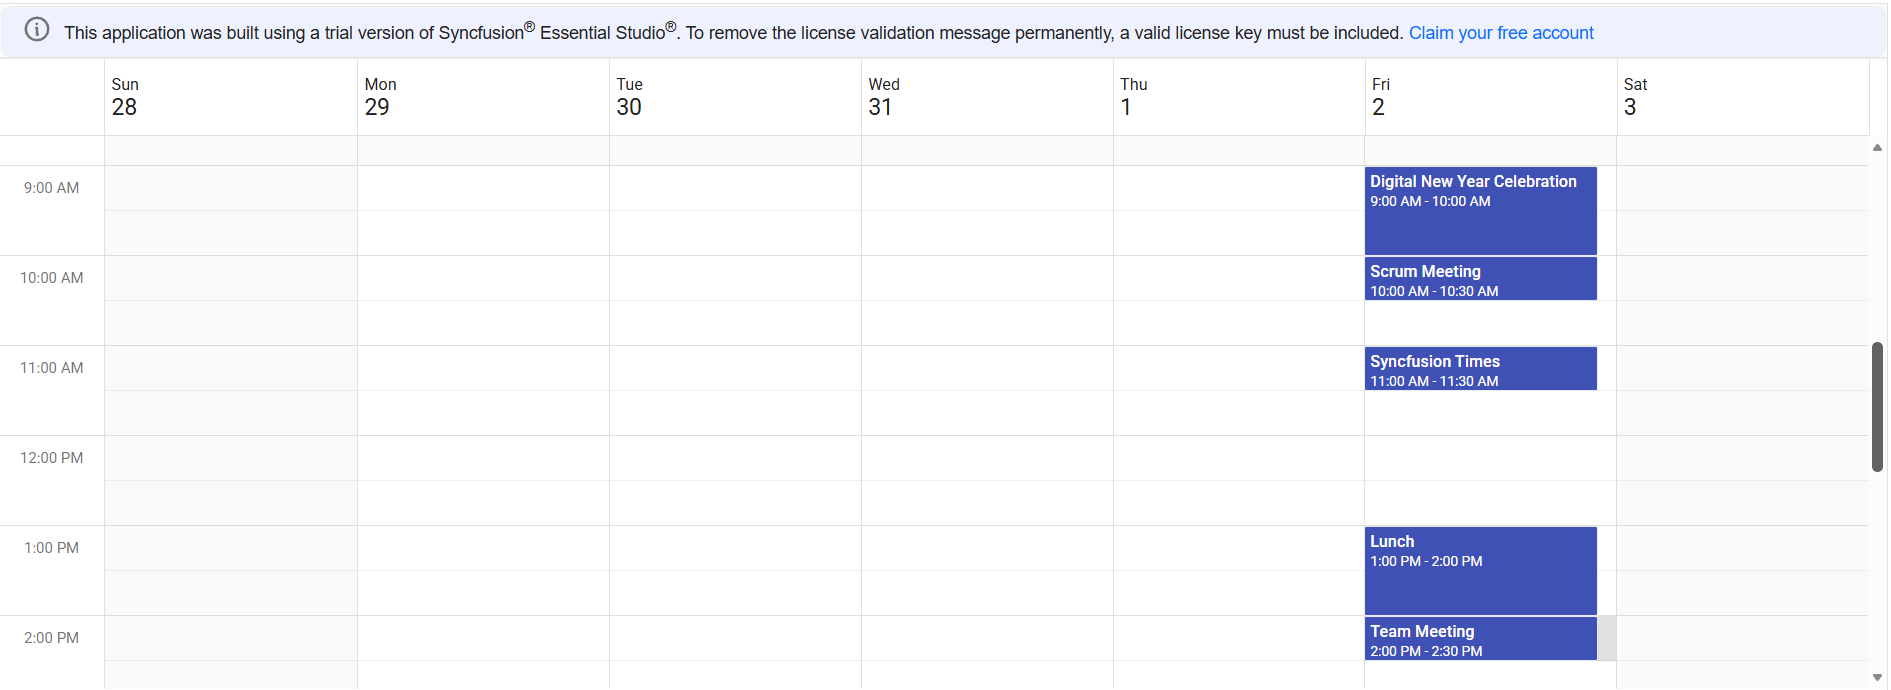
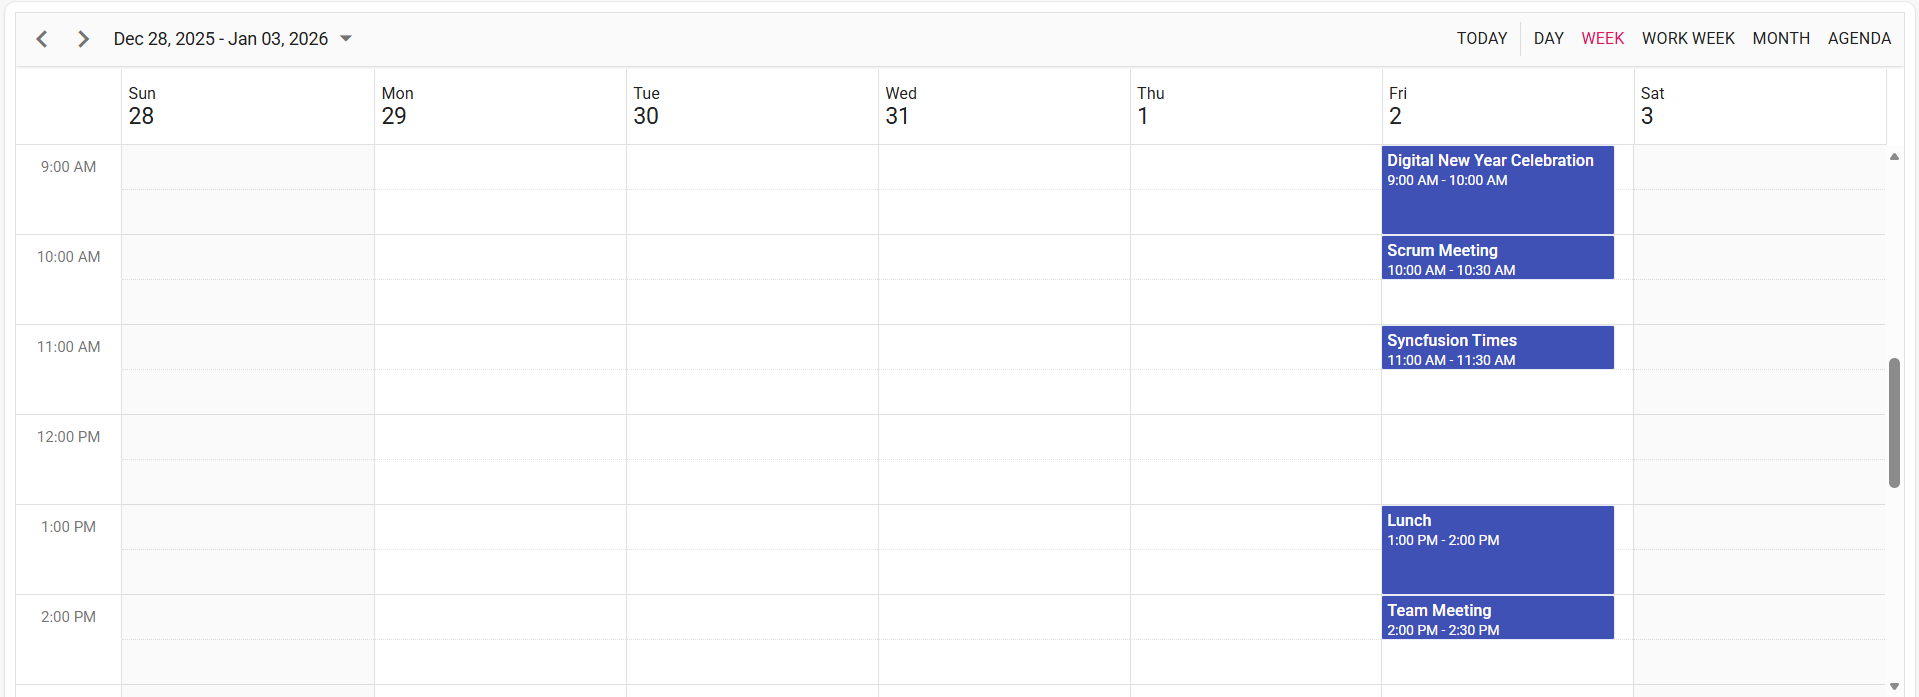
updated README.md & sample output

diff --git a/README.md b/README.md
@@ -14,42 +14,12 @@ The backend provides REST API endpoints for managing calendar events, which are 
 
 <br />
 
-## Project Structure
-```
-├── src
-│     ├── app
-│     │    ├── app.component.css
-│     │    ├── app.component.html
-│     │    ├── app.component.spec.ts
-│     │    ├── app.component.ts
-│     │    └── app.module.ts
-│     ├── environments
-│     │    ├── environment.prod.ts
-│     │    └── environment.ts
-│     ├── server
-│     │    └── server.js
-│     ├── main.ts              
-│     ├── pollfills.ts
-│     ├── style.css
-│     ├── system.js.config.js             
-│     ├── test.ts
-│     ├── tsconfig.app.json
-│     ├── tsconfig.spec.json              
-│     └── typings.d.ts
-├── .angular-cli.json
-├── .editorconfig              
-├── angular.json
-├── karma.config.js
-├── package.lock.json
-├── package.json              
-├── protractor.config.js
-├── README.md
-├── tsconfig.json
-└── tslint.json    
-```
+## Setup
+- Clone the repository to your local machine.
+
 <br />
 
-## Backend Setup
+### Backend Setup
 
 #### <u> MongoDB </u>
 
@@ -57,18 +27,9 @@ The backend provides REST API endpoints for managing calendar events, which are 
 2. Create a Collection named `ScheduleData` in the above created database.
 3. Make sure this connection is in connected state in MongoDB Compass.
 
-#### <u> Available Endpoints </u>
-The Express server (`server.js`) exposes the following REST routes:
-| Method | URL                          | Description                         |
-| ------ | ---------------------------- | ----------------------------------- |
-| POST   | `/GetData`                   | Fetch all the events                |
-| POST   | `/BatchData`                 | Insert/Update/Delete event          |
-
 <br />
 
-## Frontend Setup
-
-#### <u> Installation </u>
+### Frontend Setup
 1. In a new terminal, navigate to the project folder:
 2. Install application dependencies:
     ```bash
@@ -93,7 +54,7 @@ The Express server (`server.js`) exposes the following REST routes:
 
 <br />
 
-# Sample Outputs
+## Sample Outputs
 ![FrontEnd Angular](./SampleOutputs/FrontEnd-Angular.png)
 *Image illustrating the Syncfusion Angular Scheduler* 
 
@@ -107,262 +68,7 @@ The Express server (`server.js`) exposes the following REST routes:
 - **CORS errors**: Ensure the frontend running on `localhost:4200`.
 
 <br />
-<br />
-<br />
-<br />
-
-# Creating a MEAN (MongoDB, Express, Angular, Node) Application Using Syncfusion® Angular Scheduler Component
-
-## Prerequisites
-- Use Node Version >= 20.19.0 (for better performance with MongoDB driver 7.0)
-- Use Latest MongoDB Software.
-- Make sure there is nothing running on the ports 5000, 4200.
-
-<br />
-
-## Database Setup
-
-#### <u> MongoDB </u>
-
-1. Download the mongoDB software from the below given link.
-    - https://www.mongodb.com/try/download/community
-2. Open MongoDB Compass, Create a Database in the connection
-3. Create a Collection inside the above created database.
-4. Make sure this connection is in connected state in MongoDB Compass.
-
-<br />
-
-## Application Setup
-
-#### <u> Angular </u>
-
-1. **You can use Angular CLI to set up your Angular applications.<br />** To install the Angular CLI, use the following command.
-    ```bash
-    npm install -g @angular/cli
-    ```
-2. **Create an Angular application**<br />
-Create a new Angular application using the following Angular CLI command.
-    ```bash
-    ng new my-app
-    cd my-app
-    ```
-    - Choose CSS stylesheet
-    - Choose No for SSR as we will create server using express later.
-3. **Installing Syncfusion® Schedule package**<br />
-Syncfusion® packages are distributed on npm as @syncfusion scoped packages. You can find all the Angular Syncfusion® packages on [npm](https://www.npmjs.com/search?q=%40syncfusion%2Fej2-angular-).
-
-    Syncfusion® provides two types of package structures for Angular components:
-
-    1. Ivy library distribution package format
-    2. Angular compatibility compiler(Angular’s legacy compilation and rendering pipeline) package.<br />
-    <br />
-        **Ivy library distribution package** <br />
-        Syncfusion® Angular packages (>=20.2.36) use the Ivy distribution to support the Angular Ivy rendering engine and the package are compatible with Angular version 12 and above. Use the following command to install the latest Ivy package.
-
-        Add [@syncfusion/ej2-angular-schedule](https://www.npmjs.com/package/@syncfusion/ej2-angular-schedule/v/20.2.38) package to the application. (`if you are using angular >= angular 12`)
-
-        ```bash
-        npm install @syncfusion/ej2-angular-schedule --save
-        ```
-        **Angular compatibility compiled (NGCC) package**<br />
-        For Angular versions below 12, you can use the legacy (ngcc) package of the Syncfusion® Angular components. To download the ngcc package use the below.
-
-        Add [@syncfusion/ej2-angular-schedule@ngcc](https://www.npmjs.com/package/@syncfusion/ej2-angular-schedule/v/20.2.38-ngcc) package to the application. (`if you are using angular < angular 12`)
-
-        ```bash
-        npm install @syncfusion/ej2-angular-schedule@ngcc --save
-        ```
-        To specify the NGCC package in `package.json`, add the `-ngcc` suffix to the version number.
-
-        ```bash
-        @syncfusion/ej2-angular-schedule:"20.2.38-ngcc"
-        ```
-        `Note: If the ngcc tag is not specified while installing the package, the Ivy Library Package will be installed and this package will throw a warning.`
-4. **Adding CSS reference**<br />
-    The necessary CSS files for the Schedule component are located in the ej2-angular-schedule package. You can reference them in your `src/styles.css` file.
-    ```bash
-    @import '../node_modules/@syncfusion/ej2-base/styles/material.css';
-    @import '../node_modules/@syncfusion/ej2-buttons/styles/material.css';
-    @import '../node_modules/@syncfusion/ej2-calendars/styles/material.css';
-    @import '../node_modules/@syncfusion/ej2-dropdowns/styles/material.css';
-    @import '../node_modules/@syncfusion/ej2-inputs/styles/material.css';
-    @import '../node_modules/@syncfusion/ej2-lists/styles/material.css';
-    @import '../node_modules/@syncfusion/ej2-popups/styles/material.css';
-    @import '../node_modules/@syncfusion/ej2-navigations/styles/material.css';
-    @import '../node_modules/@syncfusion/ej2-angular-schedule/styles/material.css';
-    ```
-5. **<u>Server Setup</u>**
-    1. Create a separate folder `server` for server file(`server.js`) inside the `my-app/`.
-    2. From this root folder `my-app/`, run the following commands to install the needed packages for the communication between frontend and backend
-        ```bash
-            npm install mongodb
-        ``` 
-        ```bash
-            npm install express
-        ```  
-        ```bash
-            npm install cors
-        ``` 
-    3. Using Express create API Endpoints and functionalities as per our need and make communication with the DB using MongoClient
-    
-        For your reference
-        `server/server.js`
-        ```bash
-        var MongoClient = require('mongodb').MongoClient;
-        const express = require('express');
-        var cors = require('cors');
-        const app = express();
-        var url = "mongodb://localhost:27017/";
-        app.use(express.json());
-        app.use(express.urlencoded({ extended: false }));
-
-        app.use(cors({
-            origin: 'http://localhost:4200', // your React dev server
-            methods: ['GET', 'POST', 'PUT', 'PATCH', 'DELETE', 'OPTIONS'],
-            allowedHeaders: ['Content-Type', 'Authorization'],
-            credentials: false // set to true ONLY if you use cookies/Authorization with cross-origin
-        }));
-
-        app.use(express.static(__dirname));
-        app.listen(5000, function () { console.log('listening on 5000'); });
-
-        (async () => {
-            try {
-                const client = new MongoClient(url);
-                await client.connect();
-                const dbo = client.db('mydb');
-
-                app.post("/GetData", async function (req, res) {
-                    try {
-                        const cus = await dbo.collection('ScheduleData').find({}).toArray();
-                        res.json(cus);
-                    } catch (err) {
-                        res.status(500).json({ error: 'DB error', details: err.message });
-                    }
-                });
-                app.post("/BatchData", async function (req, res) {
-                    try {
-                        let eventData = [];
-                        if (req.body.action === "insert" || (req.body.action === "batch" && req.body.added && req.body.added.length > 0)) {
-                            (req.body.action === "insert") ? eventData.push(req.body.value) : eventData = req.body.added;
-                            for (let a = 0; a < eventData.length; a++) {
-                                eventData[a].StartTime = new Date(eventData[a].StartTime);
-                                eventData[a].EndTime = new Date(eventData[a].EndTime);
-                                await dbo.collection('ScheduleData').insertOne(eventData[a]);
-                            }
-                        }
-                        if (req.body.action === "update" || (req.body.action === "batch" && req.body.changed && req.body.changed.length > 0)) {
-                            (req.body.action === "update") ? eventData.push(req.body.value) : eventData = req.body.changed;
-                            for (let b = 0; b < eventData.length; b++) {
-                                delete eventData[b]._id;
-                                eventData[b].StartTime = new Date(eventData[b].StartTime);
-                                eventData[b].EndTime = new Date(eventData[b].EndTime);
-                                await dbo.collection('ScheduleData').updateOne({ "Id": eventData[b].Id }, { $set: eventData[b] });
-                            }
-                        }
-                        if (req.body.action === "remove" || (req.body.action === "batch" && req.body.deleted && req.body.deleted.length > 0)) {
-                            (req.body.action === "remove") ? eventData.push({ Id: req.body.key }) : eventData = req.body.deleted;
-                            for (let c = 0; c < eventData.length; c++) {
-                                await dbo.collection('ScheduleData').deleteOne({ "Id": eventData[c].Id });
-                            }
-                        }
-                        res.json(req.body);
-                    } catch (err) {
-                        res.status(500).json({ error: 'DB error', details: err.message });
-                    }
-                });
-
-                // Optional: handle SIGINT to close client
-                process.on('SIGINT', async () => {
-                    await client.close();
-                    process.exit(0);
-                });
-
-            } catch (err) {
-                console.error('Mongo connection failed:', err);
-                process.exit(1);
-            }
-        })();
-        ```
-        - Configures CORS to allow the React frontend (localhost:4200) to communicate with the Express backend.
-        - Endpoints
-            1. POST /GetData – Retrieves all schedule records from the MongoDB ScheduleData collection.
-            2. POST /BatchData – Handles insert, update, and delete operations on schedule events based on the incoming request action.                |
-        - Here Database name is `mydb` and Collection name is `ScheduleData`
-    4. Add the following lines in the `package.json`
-        ```bash
-        "scripts": {
-            "server": "node ./server/server.js"
-        }
-        ``` 
-    5. Make sure the address, database name, collection name are must be same as in DB created in Backend Setup.
-4. **Render the Syncfusion Schedule component as per the need. Refer the below link.**
-    - https://ej2.syncfusion.com/angular/documentation/schedule/getting-started#initialize-the-schedule-component
-
-    - For your reference
-        `src/app.ts`
-        ```bash
-        import { Component, OnInit } from '@angular/core';
-        import { ScheduleModule, EventSettingsModel, DayService, WeekService, WorkWeekService, MonthService, AgendaService } from '@syncfusion/ej2-angular-schedule';
-        import { DataManager, UrlAdaptor } from '@syncfusion/ej2-data';
-
-        @Component({
-        selector: 'app-root',
-        templateUrl: 'app.html',
-        imports: [ScheduleModule],
-        providers: [DayService, WeekService, WorkWeekService, MonthService, AgendaService],
-        })
-
-        export class App implements OnInit {
-            private dataManager: DataManager = new DataManager({
-                url: 'http://localhost:5000/GetData',
-                crudUrl: 'http://localhost:5000/BatchData',
-                adaptor: new UrlAdaptor,
-                crossDomain: true
-            });
-            public eventSettings: EventSettingsModel = { dataSource: this.dataManager };
-            public selectedDate: Date | undefined;
-            ngOnInit(): void {
-                    this.selectedDate = new Date(2026, 0, 1);
-            }
-        }  
-        ```
-        - Getting & Inserting Events done through the DataManager
-        - Frontend calls the backend API using http://localhost:5000/GetData to fetch all schedule data from the server
-        - Frontend uses http://localhost:5000/BatchData as the CRUD endpoint to add, update, or delete schedule events on the backend.
-        
-        `src/app.html`
-        ```bash
-        <ejs-schedule #scheduleObj width="100%" height="550px" [eventSettings]='eventSettings' [selectedDate]="selectedDate"></ejs-schedule>
-        ```
-<br />
-
-## Running the Application
-1. Open terminal, Navigate to the project folder `my-app/`.
-2. Start the backend server:
-    ```bash
-    npm run server (runs the server.js file)
-    ```
-3. Backend server started running on `http://localhost:5000`
-4. Open another terminal and Navigate to the project folder `my-app/`, Start the frontend:
-    ```bash
-    ng serve
-    ```
-5. Navigate to [http://localhost:4200](http://localhost:4200) in your browser.<br />
-    The page will reload if you make edits.<br />
-    You will also see any lint errors in the console.
-
-<br />
-
-## Troubleshooting
-- **404 PageNotFound**: Ensure the backend server running on `localhost:5000`.
-- **CORS errors**: Ensure the frontend running on `localhost:4200`.
-
-<br />        
-<br />        
-<br />        
-<br />     
 
 # Learn More
 
-To know about how to configure the Syncfusion Angular Schedule component, refer to the [documentation](https://ej2.syncfusion.com/angular/documentation/schedule/getting-started).
+To learn more about integrating the Syncfusion Angular Schedule component,, refer to the [Syncfusion Documentation](https://ej2.syncfusion.com/angular/documentation/schedule/getting-started).
